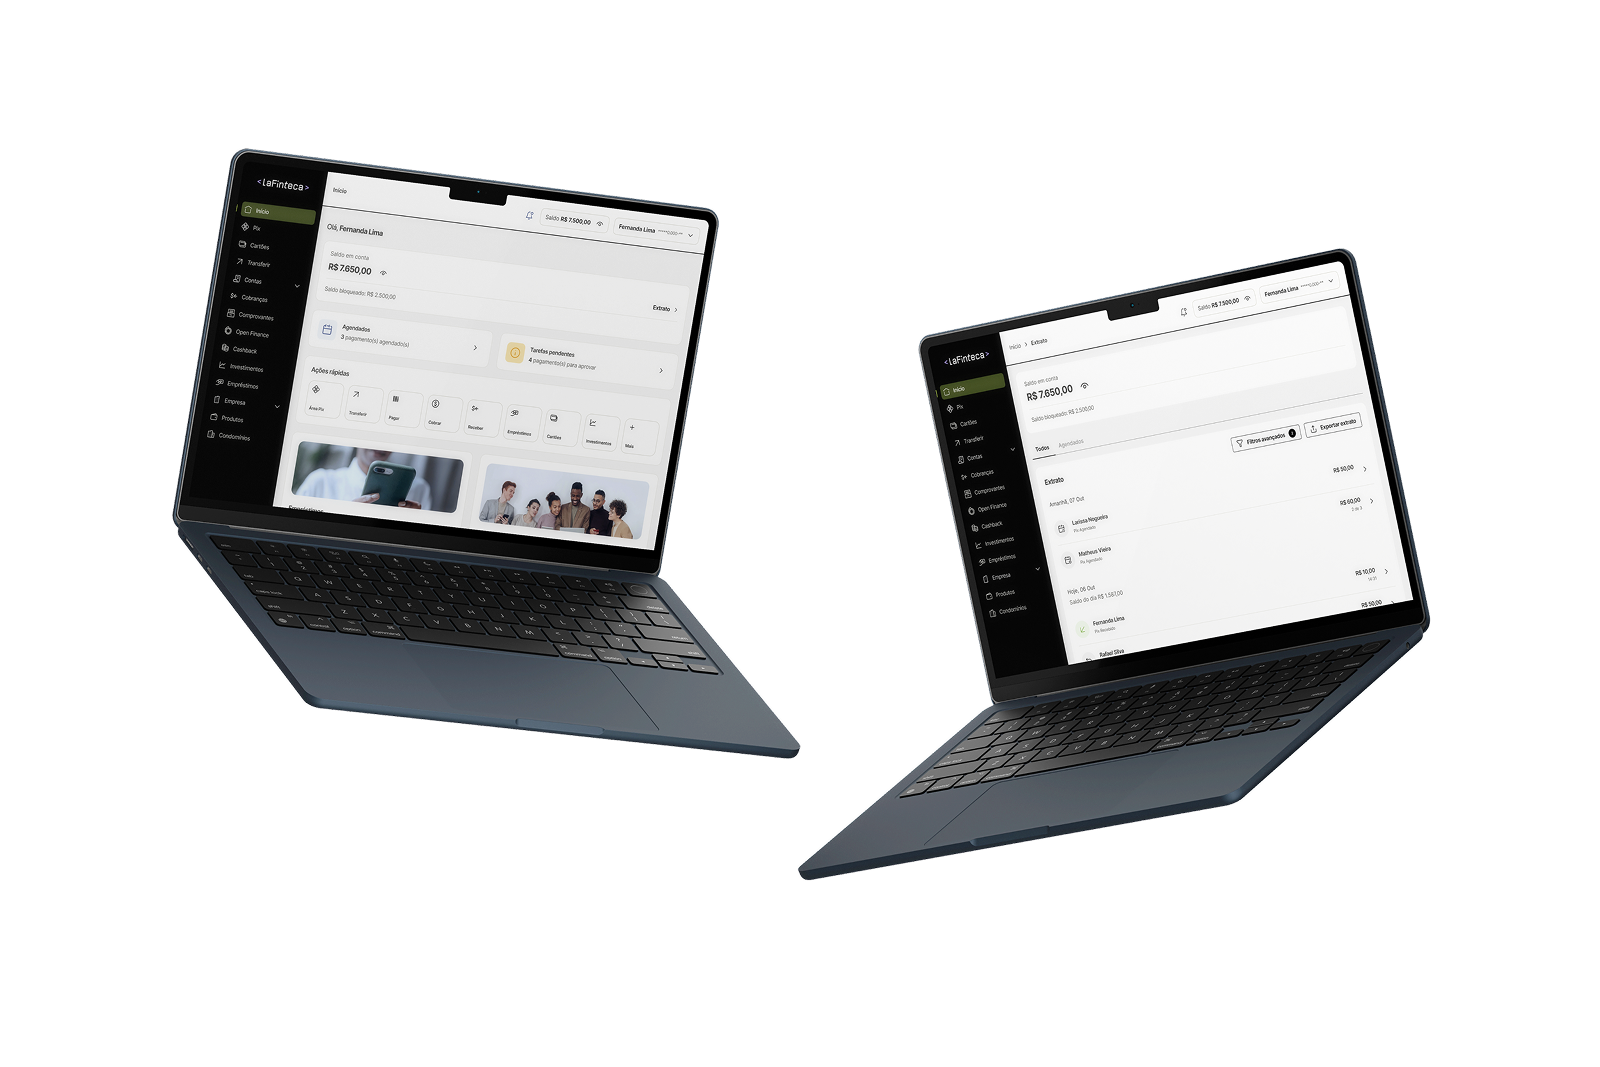
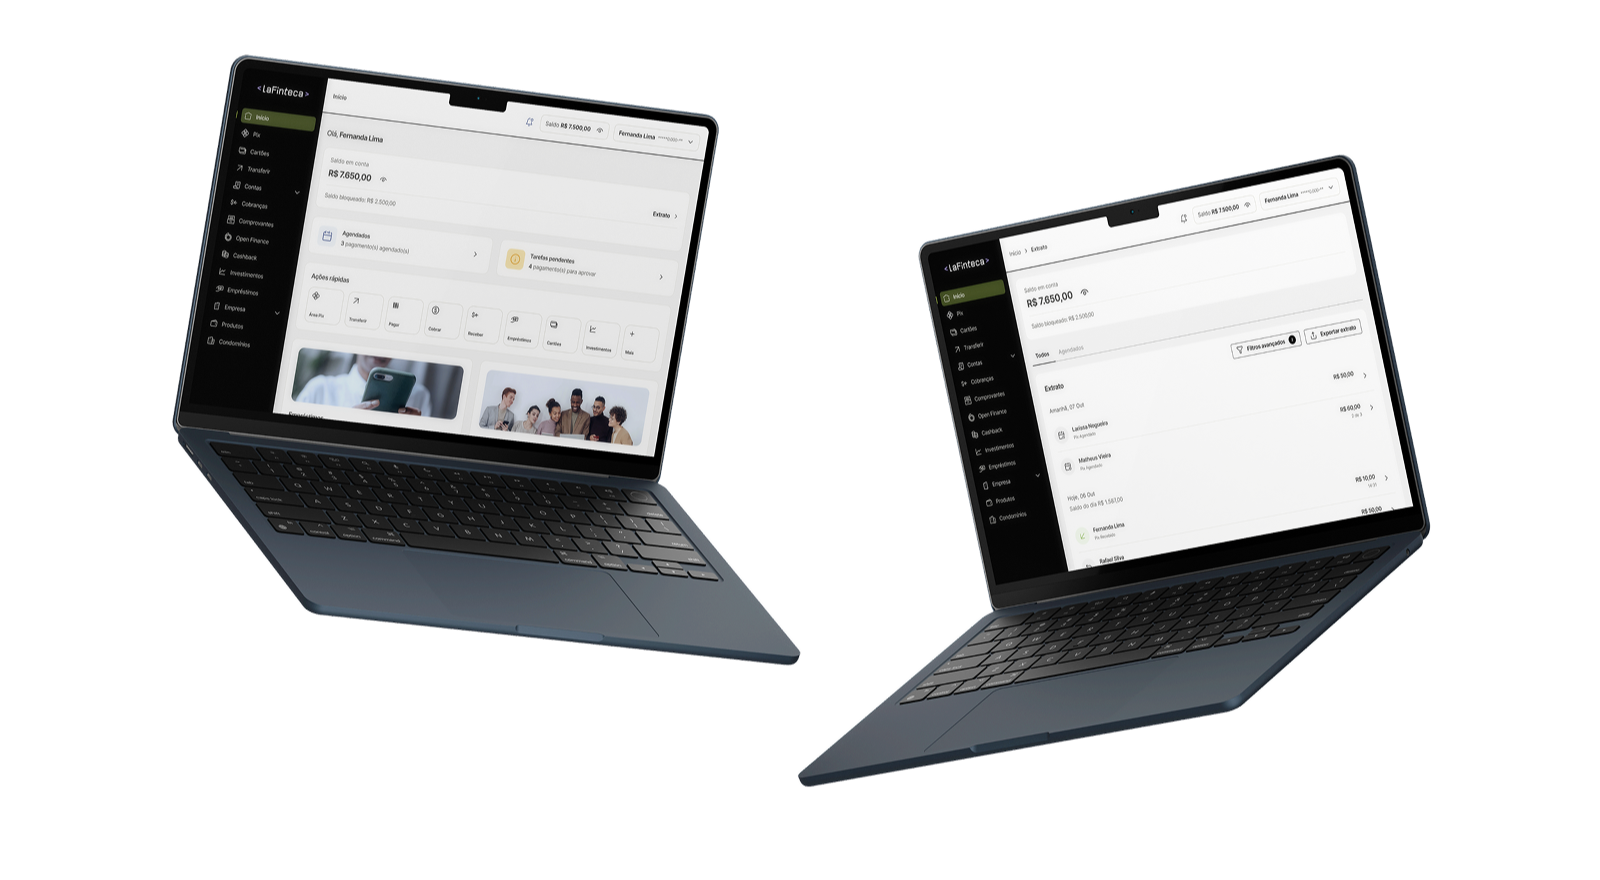
Home image polish: hero zoom, fintech framing, laptop→CTA gap, CTA crop
- Hero: zoom photo to 122% (cover) so the subject reads closer, not up-close
- "Da MPE à fintech": switch .home-split__img to the photo's native ratio
  (1200/630) so the whole frame shows, centered, uncropped
- Laptop→CTA gap: trim ~187px of baked transparent whitespace from the bottom
  of the dual-MacBook PNG (1067→880) and flush the section paddings
  (home-block--flush-bottom/--flush-top) so the CTA sits closer
- Bottom CTA: background-position 42% → 26% so the tallest walker's head clears

Verified hero, split, gap, and CTA at desktop + mobile.

Changed region(s): [[0.0938, 0.0614, 0.5, 0.767], [0.5, 0.1534, 0.9062, 0.8898], [0.3125, 0.2761, 0.375, 0.3989]]

diff --git a/pages/home.html b/pages/home.html
@@ -86,7 +86,7 @@
   </section>
 
   <!-- NOVA HOME DA EQUIPE DE PAGAMENTOS -->
-  <section class="home-block home-block--full">
+  <section class="home-block home-block--full home-block--flush-bottom">
     <div class="home-block__inner home-block__inner--center">
       <h2 class="home-block__title home-block__title--gradient fade-in-on-scroll"><span data-lang="pt">Seu painel de pagamentos.<br>Saldo, TEDs e histórico em uma tela.</span><span data-lang="en">Your payments dashboard.<br>Balance, TEDs and history in one screen.</span></h2>
       <p class="home-block__sub home-block__sub--center home-block__sub--wide"><span data-lang="pt">Saldo disponível atualizado. Histórico dos últimos 7 dias.<br>Entradas e saídas do mês. Sem navegar, tudo visível na tela inicial.</span><span data-lang="en">Live available balance. Last 7 days of activity.<br>Monthly inflows and outflows. No navigation needed, everything visible on screen.</span></p>
@@ -94,14 +94,14 @@
     <figure class="laptop-shot fade-in-on-scroll">
       <img class="laptop-shot__img"
            src="assets/macbook-mockup-dual.png"
-           width="1600" height="1067"
+           width="1600" height="880"
            loading="lazy" decoding="async"
            alt="Painel da Conta PJ LaFinteca em dois MacBooks: tela inicial com saldo e ações rápidas, e tela de extrato com filtros e agendamentos.">
     </figure>
   </section>
 
   <!-- MID-PAGE CTA — placeholder copy; replace [CTA_*_PLACEHOLDER] before launch. -->
-  <section class="home-block">
+  <section class="home-block home-block--flush-top">
     <div class="cta-inset fade-in-on-scroll">
       <h2 class="cta-inset__title"><span data-lang="pt">Cada pagamento,<br>na hora certa,<br>com comprovante.</span><span data-lang="en">Every payment,<br>on time,<br>with proof.</span></h2>
       <div class="cta-inset__actions">

diff --git a/assets/css/site.css b/assets/css/site.css
@@ -384,7 +384,9 @@
     background-image:
       linear-gradient(180deg, rgba(20,20,24,0.10) 0%, rgba(20,20,24,0.55) 70%, rgba(20,20,24,0.85) 100%),
       url('assets/hero-home.jpg');
-    background-size: cover;
+    /* Gradient covers; the photo is zoomed slightly past cover to bring the
+       subject closer without going up-close. */
+    background-size: cover, 122%;
     background-position: center 12%;
   }
   /* Hero placeholder hint — corner label so it doesn't fight the headline.
@@ -708,6 +710,10 @@
     background: var(--dark);
   }
   .home-block--alt { background: #1f1f23; }
+  /* Pull the mid-page CTA up toward the laptop shot (the PNG already carries
+     transparent headroom below the laptops, so the default 80px gap is too much). */
+  .home-block--flush-bottom { padding-bottom: 0; }
+  .home-block--flush-top { padding-top: 8px; }
   /* Full-bleed inner: lets the laptop mockup span edge-to-edge while the
      centered title/sub above it stays at the regular max-width. */
   .home-block--full { padding-left: 0; padding-right: 0; }
@@ -1459,7 +1465,7 @@
     display: block;
     width: 100%;
     min-width: 0; /* let the 1fr grid track shrink below the image's intrinsic width */
-    aspect-ratio: 16 / 10;
+    aspect-ratio: 1200 / 630; /* native ratio: whole photo shows, centered, no crop */
     object-fit: cover;
     border-radius: 12px;
   }
@@ -1528,7 +1534,7 @@
       linear-gradient(180deg, rgba(13, 13, 15, 0.66) 0%, rgba(13, 13, 15, 0.52) 50%, rgba(13, 13, 15, 0.66) 100%),
       url('assets/home-cta.jpg');
     background-size: cover;
-    background-position: center 42%;
+    background-position: center 26%;
   }
   .cta-banner--centered .cta-banner__inner {
     grid-template-columns: 1fr;
